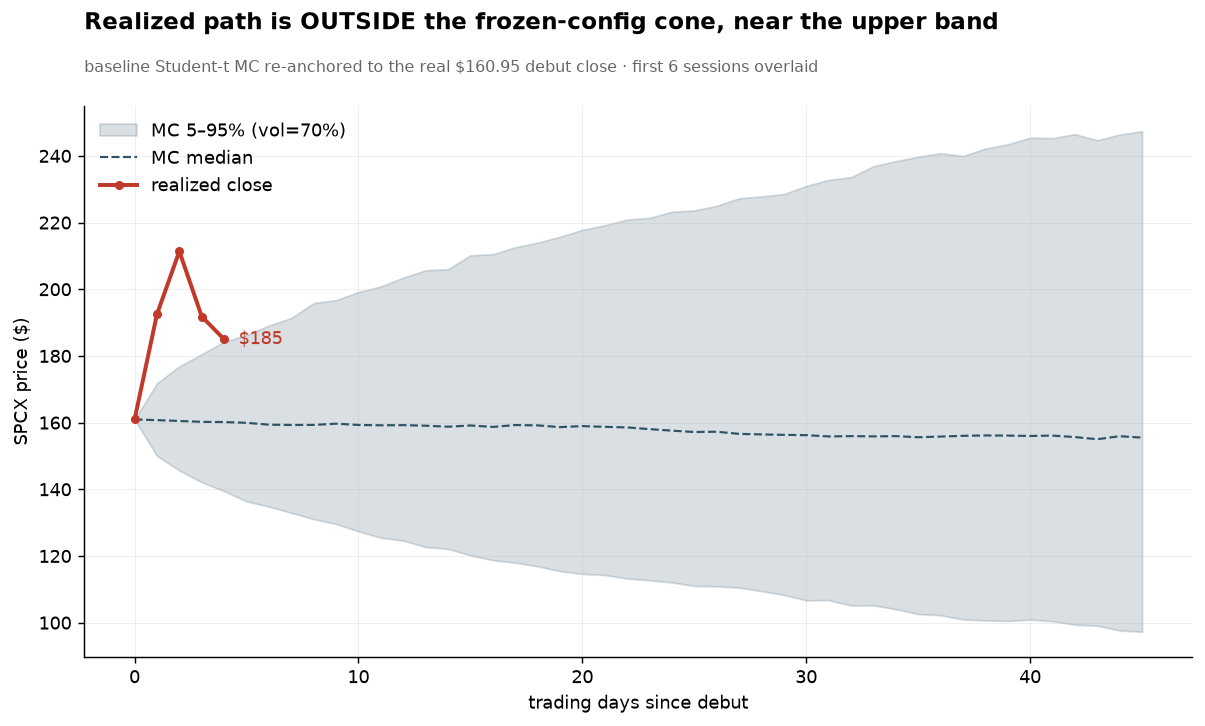
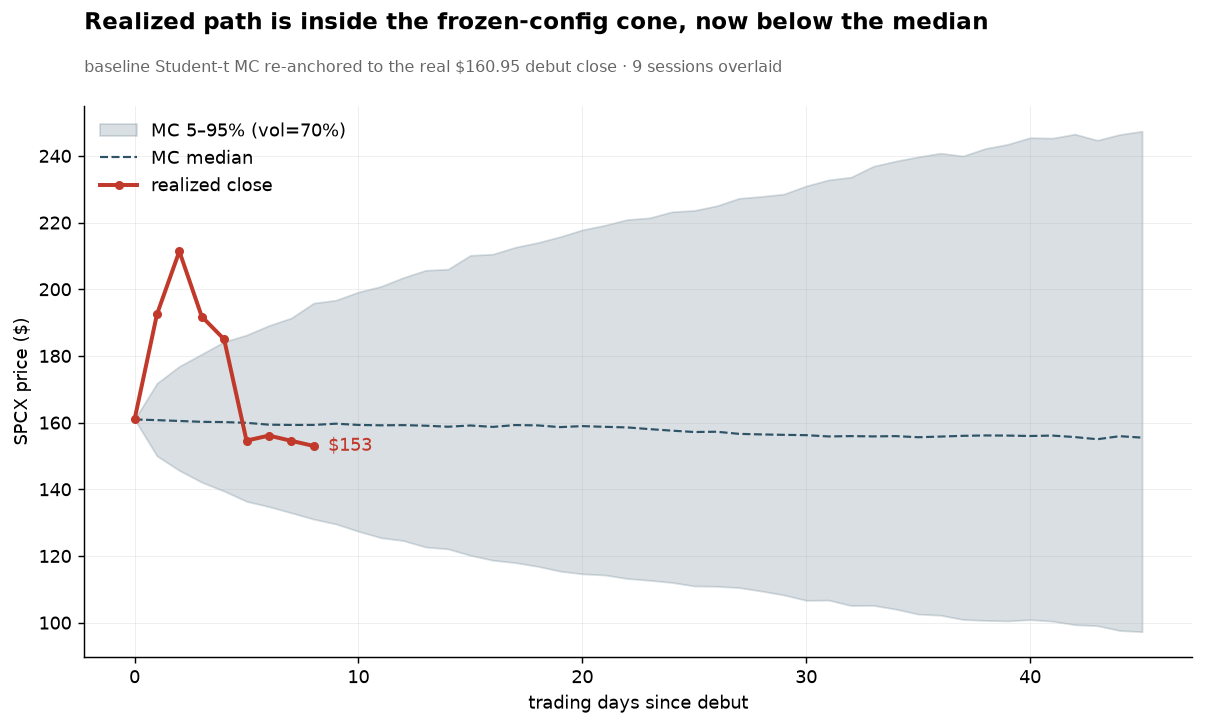
Post-IPO tracking refresh: T+9 round-trip to $153
Realized SPCX path round-tripped from the $211 peak back through the
frozen-config median to $153 by 2026-06-25; the day-1 pre-registration
(P1/P2 TRUE, $2.105T) stays frozen and untouched. Regenerate the
post-IPO overlay PNG + GIF (9 sessions) and refresh the README post-IPO
section. Generator subtitles are now derived from the realized series
(session count, side of median) so they no longer go stale by hand.
Baseline notebooks/charts/PREDICTIONS.md left frozen.

Changed region(s): [[0.2456, 0.0, 0.829, 0.1212], [0.1842, 0.4545, 0.2456, 0.6061], [0.2456, 0.6061, 0.3071, 0.6364]]

diff --git a/tools/build_post_ipo.py b/tools/build_post_ipo.py
@@ -35,7 +35,7 @@ CELLS = [
 > **frozen** day-1 checkpoint + pre-debut Polymarket odds and holds them against **live, realized**
 > data. Everything dated before 2026-06-12 is the contract; everything here is the scoring.
 
-What it answers, six days after the debut:
+What it answers, two weeks after the debut (T+9 sessions):
 1. How did the day-1 bet resolve? (P1/P2)
 2. Were the probabilities — ours and the market's — calibrated?
 3. The IV reality check the README promised: did the model's assumed vol meet the listed-option IV?
@@ -114,19 +114,21 @@ ax.plot(x, p50, color=PALETTE[0], lw=1.2, ls="--", label="MC median")
 ax.plot(rx, realized.values, color=BAD, lw=2.2, marker="o", ms=4, label="realized close")
 ax.annotate(f"${realized.values[-1]:.0f}", (rx[-1], realized.values[-1]),
             xytext=(8, 0), textcoords="offset points", va="center", color=BAD, fontsize=10)
-inside = (realized.values[-1] >= p5[len(realized) - 1]) and (realized.values[-1] <= p95[len(realized) - 1])
-headline(ax, f"Realized path is {'inside' if inside else 'OUTSIDE'} the frozen-config cone, near the upper band",
-         "baseline Student-t MC re-anchored to the real $160.95 debut close · first 6 sessions overlaid")
+last = len(realized) - 1
+inside = (realized.values[-1] >= p5[last]) and (realized.values[-1] <= p95[last])
+side = "above" if realized.values[-1] >= p50[last] else "below"
+headline(ax, f"Realized path is {'inside' if inside else 'OUTSIDE'} the frozen-config cone, now {side} the median",
+         f"baseline Student-t MC re-anchored to the real $160.95 debut close · {len(realized)} sessions overlaid")
 ax.set_xlabel("trading days since debut"); ax.set_ylabel("SPCX price ($)")
 ax.legend(loc="upper left")
 fig.savefig("../assets/chart_post_ipo.png", bbox_inches="tight")
 plt.show()"""),
-    ("md", """## 5. Verdict so far (2026-06-20, T+6)
+    ("md", """## 5. Verdict so far (2026-06-25, T+9)
 
 - **Day-1 bet resolved correctly**: +19.2% pop, $2.105T cap → **P1 and P2 both TRUE**, scored on the frozen close (the scoring-drift bug that would have un-resolved this is fixed, PR #6).
 - **Calibration held**: Polymarket priced cap>$2T at ~0.63 and our pre-registered P2 was 0.60 — both on the right side, both near the realized truth. No overconfidence to flag yet.
-- **The model under-vol'd**: assumed 70% vs listed ATM IV ~88% for the August expiry. The put spread the plan buys in July is therefore *more expensive* than the baseline implied — judge the entry on real IV, exactly as the sensitivity note warned.
-- **Reality stayed in the cone**, hugging the upper band: the realized path spiked to ~$211 then settled to $185, well within the frozen-config 5–95% envelope.
+- **The model under-vol'd**: assumed 70% vs listed ATM IV ~88% for the August expiry. The put spread the plan buys in July is therefore *more expensive* than the baseline implied — judge the entry on real IV, exactly as the sensitivity note warned. The two-week round-trip below is the realized version of that under-priced vol.
+- **The pop round-tripped**: the realized path spiked to ~$211 on session 3 — briefly *above* the frozen 95th-percentile band — then unwound through the median to **$153** by T+9, just below the $160.95 debut close. Still inside the cone, but now in its lower half, not the upper band it was hugging six sessions in. The day-1 fact is frozen and unaffected; the post-debut tape is simply doing what 88% IV said it would.
 
 **Still ahead and untouched**: the July spread entry, the August earnings + insider unlock (the whole thesis), and `form4_watch()` going live. The pre-registration stands; this page only keeps score."""),
 ]

diff --git a/tools/make_post_ipo_gif.py b/tools/make_post_ipo_gif.py
@@ -35,6 +35,7 @@ def main() -> None:
     realized = get_ohlcv("SPCX", period="1mo", force=True)["Close"]
     realized = realized[realized.index >= "2026-06-12"].to_numpy()
     rx = np.arange(len(realized))
+    side = "above" if realized[-1] >= p50[len(realized) - 1] else "below"
 
     fig, ax = plt.subplots(figsize=(9, 5.2))
     ax.set_xlim(0, days[-1])
@@ -44,7 +45,7 @@ def main() -> None:
                 fontsize=9, ha="center", color=PALETTE[1])
     ax.text(0, 1.10, f"Realized SPCX path vs the frozen-config Monte Carlo cone (anchored to the ${close_d1:.2f} debut close)",
             transform=ax.transAxes, fontsize=11.5, fontweight="bold", va="bottom")
-    ax.text(0, 1.04, "baseline Student-t MC re-anchored to reality · the first six sessions land inside the 5th-95th band",
+    ax.text(0, 1.04, f"baseline Student-t MC re-anchored to reality · {len(realized)} sessions in, the realized close sits {side} the median",
             transform=ax.transAxes, fontsize=9, color="#666666", va="bottom")
     ax.set_xlabel("sessions since debut"); ax.set_ylabel("$")
 

diff --git a/README.md b/README.md
@@ -143,7 +143,7 @@ RIVN, META, SNAP) shows the drop happens in *anticipation* (-37 points on averag
 sessions before expiry) and the unlock day itself is often a local bottom. Sell the rumor,
 buy the news: the exit rule was rewritten accordingly (close within T+5 of the unlock).
 
-## Six days in — predicted vs realized (the pre-registration stays frozen)
+## Two weeks in — predicted vs realized (the pre-registration stays frozen)
 
 The debut happened. [`notebooks/06_post_ipo_review.ipynb`](notebooks/06_post_ipo_review.ipynb) is
 an **added** scoring layer — it never edits `PREDICTIONS.md`, the metrics, or the baseline charts;
@@ -152,8 +152,10 @@ it reads the **frozen** day-1 checkpoint and pre-debut odds and holds them again
 <div align="center">
 <img src="assets/mc_paths_post_ipo.gif" width="640"/><br>
 <sub><b>Realized path vs the frozen-config Monte Carlo cone</b> — the baseline Student-t MC
-re-anchored to the real $160.95 debut close, the realized SPCX path (red) revealed on top; the
-first six sessions land inside the 5–95% envelope, hugging the upper band. Static version:
+re-anchored to the real $160.95 debut close, the realized SPCX path (red) revealed on top. Nine
+sessions in, the pop has <b>round-tripped</b>: a spike to ~$211 (briefly above the frozen 95th
+percentile) unwound through the median to $153 — just below the debut close, now in the lower half
+of the cone, still inside it. Static version:
 <a href="assets/chart_post_ipo.png">chart_post_ipo.png</a></sub>
 </div>
 
@@ -166,7 +168,9 @@ first six sessions land inside the 5–95% envelope, hugging the upper band. Sta
 
 Calibration held (crowd and our P both on the right side of $2T, near its probability); the model
 under-priced volatility, so the July put spread is richer than the baseline implied — judge the
-entry on real IV, exactly as the sensitivity note warned. Full scoring in
+entry on real IV, exactly as the sensitivity note warned. The two-week round-trip from $211 back to
+$153 is that under-priced vol made visible: the day-1 fact stays frozen and TRUE, while the
+post-debut tape does what 88% IV said it would. Full scoring in
 [`checkpoints/SCORING.md`](checkpoints/SCORING.md). Still ahead and untouched: the July spread
 entry, the August earnings + insider unlock, and `form4_watch()` going live.
 